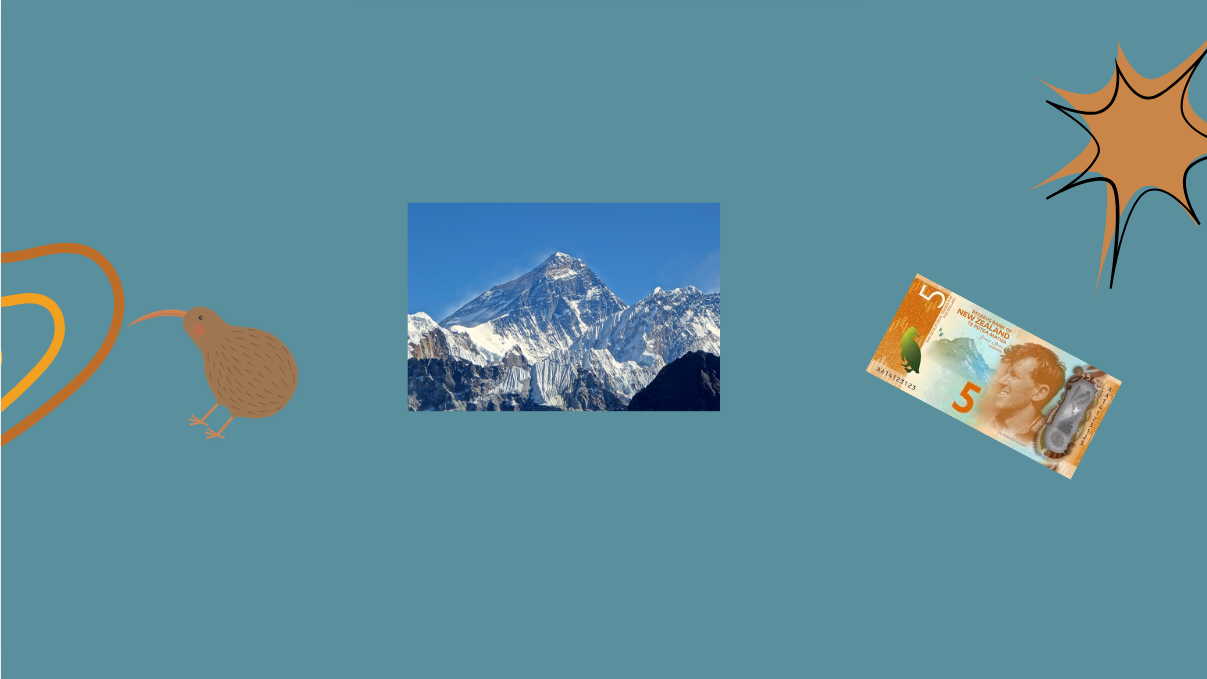
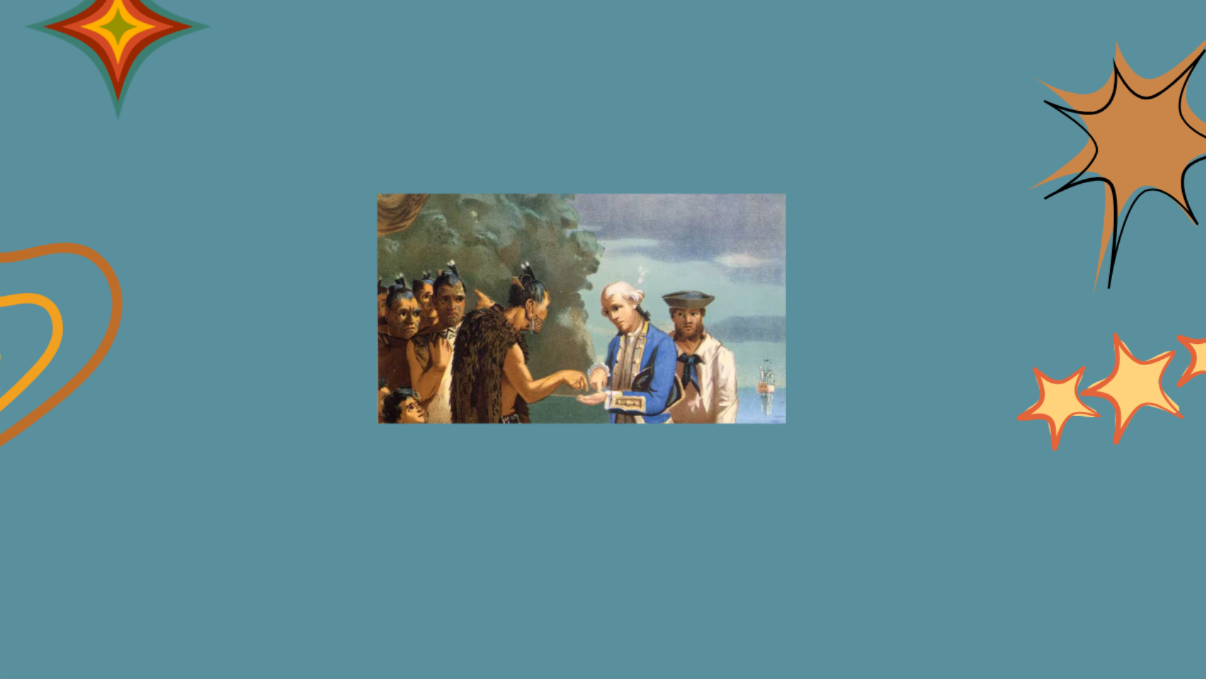
I added some code which would count which question it was on and also what image was supposed to be there also

diff --git a/assessment.py b/assessment.py
@@ -12,34 +12,34 @@ relevant_question_index = 0
 # This is the questions and answers that the user will see / be asked in the second page
 questions_answers = [
    {"question 1": "When did Moari first arrive in New Zealand?", "choices 1": ["1250 CE", "3000bc", "1875", "1920"],
-    "answer 1": "1250 CE"},
+    "answer 1": "1250 CE", "background 1":"question one background.png"},
    {"question 2": "How many tourists lost their lives from the white island volcano eruption?",
     "choices 2": ["22 people", "25 people", "43 people", "67 people"],
-    "answer 2": "22 people lost their lives, and about 25 others were injured as well"},
+    "answer 2": "22 people lost their lives, and about 25 others were injured as well", "background 2":"question two background.png"},
    {
        "question 3": "During the 2023 flooding, there was a record-breaking amount of rainfall in the upper north island region. How much rainfall was recorded to be spread across the North Island?",
-       "choices 3": ["278mm", "539mm", "300mm", "265mm"], "answer 3": "265mm"},
+       "choices 3": ["278mm", "539mm", "300mm", "265mm"], "answer 3": "265mm", "background 3":"question three background.png"},
    {"question 4": "What is the name of the largest wildfire in New Zealand?",
     "choices 4": ["Lake Ohau fire", "Pigeon Valley Fire", "Lake Pukaki", "Taranaki Wildfire"],
-    "answer 4": "Lake Ohau fire"},
+    "answer 4": "Lake Ohau fire", "background 4":"question four background.png"},
    {
        "question 5": "On 28 November 1979, an Air New Zealand aircraft crashed into the lower slopes of Mt Erebus with an carrying amount of 257 people on board including crew , named the Mount Erebus disaster. How many people died from this crash?",
        "choices 5": ["All 257 passengers", "200 passengers", "158 passengers", "No one, everyone survived"],
-       "answer 5": "All 257 passengers"},
+       "answer 5": "All 257 passengers", "background 5":"question five background.png"},
    {"question 6": "Who signed the Treaty of Waitangi from the British side?",
     "choices 6": ["Andrew Gibson", "Gilbert Walker", "Richie Shepard", "William Hobson"],
-    "answer 6": "William Hobson"},
+    "answer 6": "William Hobson", "background 6": "question six background.png"},
    {
        "question 7": "A New Zealander was the first person to climb Mt Everest. He later appeared on the 5$ bill. What was this New Zealander's name?",
        "choices 7": ["Taikawaititi junior", "Lewis Dod", "George Calvin", "Edmund Hillary"],
-       "answer 7": "Edmund Hillary"},
+       "answer 7": "Edmund Hillary", "background 7": "question seven background.png"},
    {"question 8": "The largest lake in New Zealand is Lake Taupo. It was formed 25,000 years ago. How was it made?",
     "choices 8": ["A meteor hit it and created a massive hole", "Taupo Volcano",
                   " A series of volcanic eruptions caused the lake to form", "Many people dug it up"],
-    "answer 8": " A series of volcanic eruptions caused the lake to form"},
+    "answer 8": " A series of volcanic eruptions caused the lake to form", "background 8": "question eight background.png"},
    {
        "question 9": " Bungee jumping was originally made in New Zealand. It is when you jump off from a high elevation down towards the ground with an elastic cord connected. Who is responsible for this invention?",
-       "choices 9": ["Malachy Goodman", "Carlo Phillip", "A.J Hackett", "Henery O Donald"], "answer 9": "A.J Hackett"},
+       "choices 9": ["Malachy Goodman", "Carlo Phillip", "A.J Hackett", "Henery O Donald"], "answer 9": "A.J Hackett", "background 9": "question nine background.png"},
 ]
 
 
@@ -106,7 +106,7 @@ def open_questions_page():  # Creating the second component of the quiz
    question_1 = questions_answers[relevant_question_index]
 
 
-   # DYNAMIC FIX: Since each row has a different key number ("question 1", "question 2"),
+
    # we look up the key string using your counter index number dynamically!
    questions_text = question_1[f"question {relevant_question_index + 1}"]
 
@@ -118,7 +118,7 @@ def open_questions_page():  # Creating the second component of the quiz
    options = question_1[f"choices {relevant_question_index + 1}"]
 
 
-   # SUB-FUNCTION A: This moves to the next index layout row
+
    def goto_next_question():
        global relevant_question_index
        relevant_question_index += 1
@@ -126,18 +126,36 @@ def open_questions_page():  # Creating the second component of the quiz
            start_page.destroy()  # Deletes the current page off the screen cleanly
            open_questions_page()  # This runs the questions page function again for the next row
        else:
-           # FIXED STRING FORMATTING TYPO: Cleaned up brackets and parenthetical markers
-           label_responce.config(text=f"You have finished the Quiz! Final Score: {score}/{len(questions_answers)}",
-                                 fg="blue")
-           next_question_button.config(state="disabled")
+
+           start_page.destroy()
+           open_last_page()
 
 
-   # CREATE THE NEXT BUTTON AT THE CORRECT SCOPE DEPTH LEVEL
+   def open_last_page():
+    end_page = tk.Toplevel()
+    end_page.title("Quiz Done")
+    end_page.geometry("1200x650")
+    end_page.resizable(width="false",height="false")
+
+
+    image_end = Image.open("final quiz background.png")
+    img_end = ImageTk.PhotoImage(image_end)
+    label_end_background = tk.Label(end_page, image=img_end)
+    end_page.bg_image = img_end
+    label_end_background.pack()
+
+    player_name = names[-1] if names else "Player"
+
+    final_results_text = f"Congratulations {player_name}!\You have finished the Quiz!\n\nFinal Score: {score} / {len(questions_answers)}"
+
+    results_label = tk.Label( end_page, text=final_results_text, font=("Roboto", 25, "bold"),fg="white",justify="center")
+    results_label.place(relx=0.5, rely=0.5, anchor="center")
+
    next_question_button = tk.Button(start_page, text="Next Question", font=("Helvetica", 20, "bold"),
                                     command=goto_next_question)
 
 
-   # SUB-FUNCTION B: Checks the choices clicked against dataset keys
+
    def answer_check(user_choice):
        global score
        label_responce.place(relx=0.5, rely=0.45, anchor="center")
@@ -157,7 +175,6 @@ def open_questions_page():  # Creating the second component of the quiz
        button_4.config(command=lambda: None)
 
 
-       # Now this correctly displays because the button object was instantiated higher up!
        next_question_button.place(relx=0.5, rely=0.88, anchor="center")
 
 
